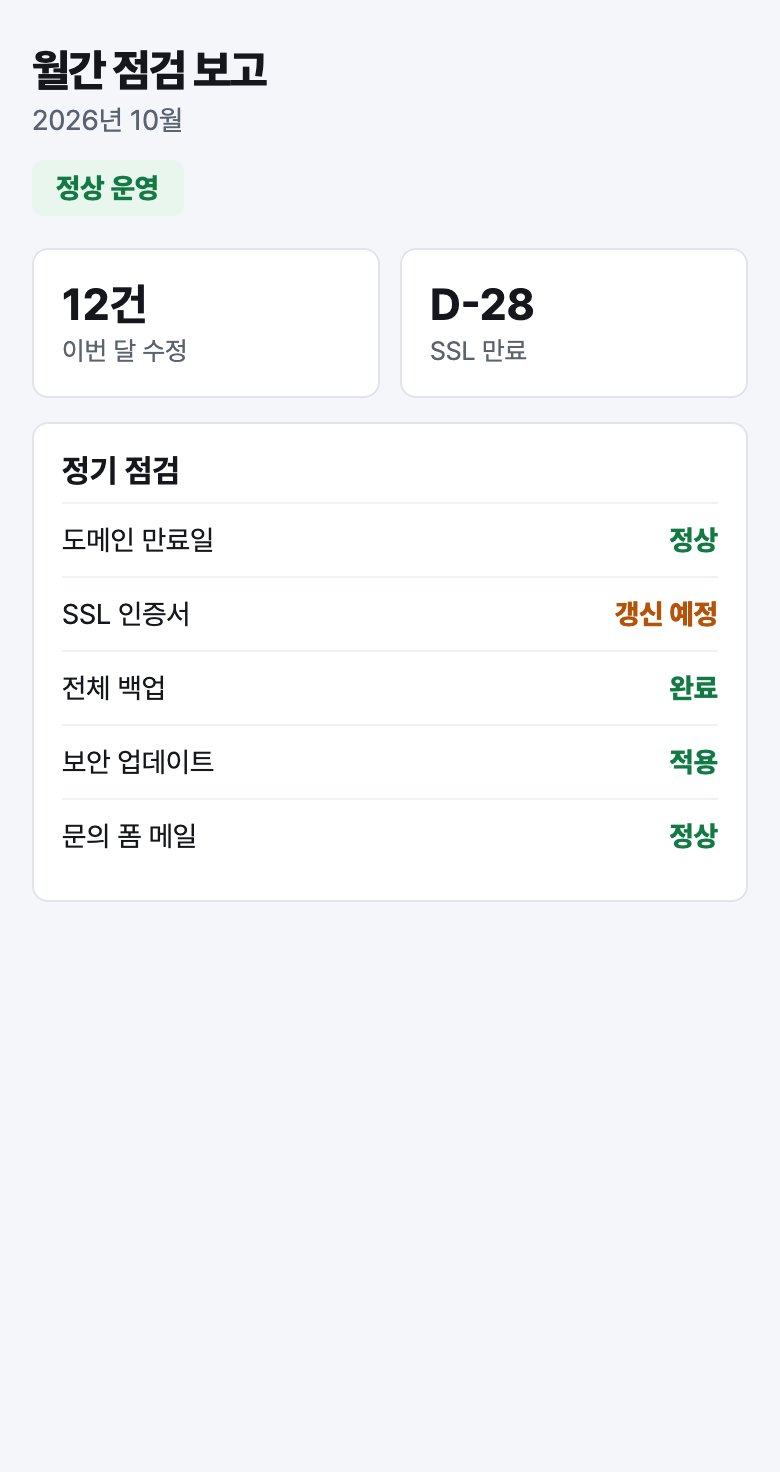
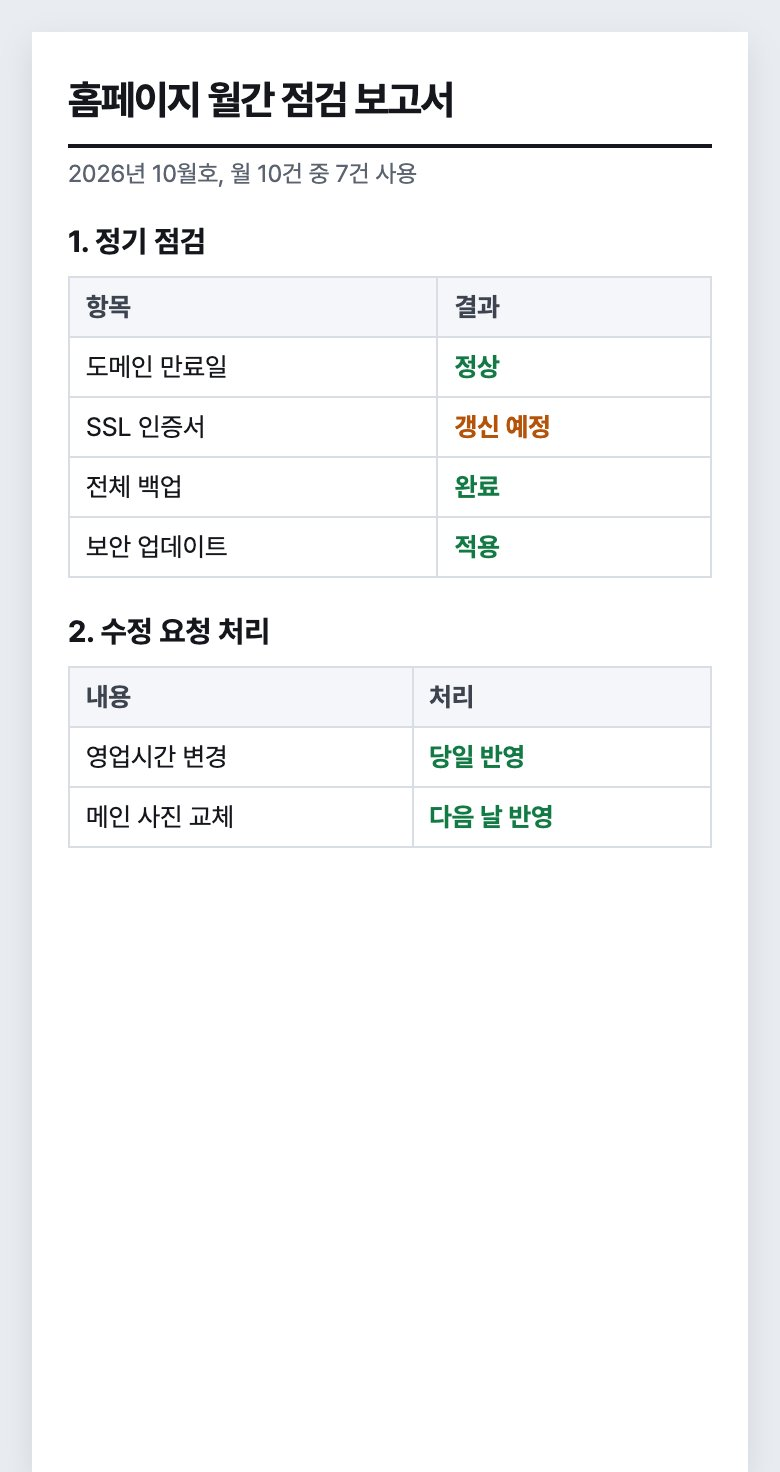
유지보수 슬라이드 화면을 월간 점검 보고서 문서로

diff --git a/assets/hero-wireframe/care-pc.html b/assets/hero-wireframe/care-pc.html
@@ -1,28 +1,27 @@
 <!doctype html><html lang="ko"><head><meta charset="utf-8"><link rel="stylesheet" href="https://cdn.jsdelivr.net/gh/orioncactus/pretendard@v1.3.9/dist/web/static/pretendard.min.css">
 <style>
-*{box-sizing:border-box;margin:0}body{width:1440px;height:900px;font-family:Pretendard;background:#f4f6f9;color:#15171c;padding:48px 60px}
-.top{display:flex;justify-content:space-between;align-items:center}.h{font-size:30px;font-weight:800;letter-spacing:-.04em}.sub{color:#5b6370;font-size:17px;margin-top:6px}
-.badge{background:#e8f6ee;color:#147a45;font-weight:800;padding:10px 18px;border-radius:8px;font-size:18px}
-.stats{display:grid;grid-template-columns:repeat(4,1fr);gap:16px;margin-top:28px}
-.s{background:#fff;border:1px solid #e1e5eb;border-radius:10px;padding:20px}.s b{display:block;font-size:34px;letter-spacing:-.04em}.s span{color:#5b6370;font-size:16px}
-.cols{display:grid;grid-template-columns:1.4fr 1fr;gap:16px;margin-top:16px}
-.card{background:#fff;border:1px solid #e1e5eb;border-radius:10px;padding:22px}.card h3{font-size:19px;margin-bottom:10px}
-.row{display:flex;justify-content:space-between;align-items:center;border-top:1px solid #eef1f5;padding:13px 0;font-size:17px}
-.ok{color:#147a45;font-weight:800}.warn{color:#b45309;font-weight:800}
-.bar{height:10px;background:#eef1f5;border-radius:5px;margin-top:8px}.bar i{display:block;height:100%;background:#256ef4;border-radius:5px}
-</style></head><body>
-<div class="top"><div><div class="h">월간 점검 보고</div><div class="sub">2026년 10월, 홈페이지 유지보수</div></div><div class="badge">정상 운영</div></div>
-<div class="stats"><div class="s"><b>24시간</b><span>내 회신</span></div><div class="s"><b>12건</b><span>이번 달 수정</span></div><div class="s"><b>4회</b><span>백업 확인</span></div><div class="s"><b>D-28</b><span>SSL 만료</span></div></div>
-<div class="cols">
-<div class="card"><h3>정기 점검</h3>
-<div class="row"><span>도메인 만료일</span><span class="ok">정상</span></div>
-<div class="row"><span>SSL 인증서</span><span class="warn">갱신 예정</span></div>
-<div class="row"><span>전체 백업</span><span class="ok">완료</span></div>
-<div class="row"><span>워드프레스 보안 업데이트</span><span class="ok">적용</span></div>
-<div class="row"><span>문의 폼 메일 수신</span><span class="ok">정상</span></div></div>
-<div class="card"><h3>수정 요청</h3>
-<div class="row"><span>영업시간 변경</span><span class="ok">반영</span></div>
-<div class="row"><span>메인 사진 교체</span><span class="ok">반영</span></div>
-<div class="row"><span>공지 등록 2건</span><span class="ok">반영</span></div>
-<div style="margin-top:14px;font-size:15px;color:#5b6370">월 건수 사용 7 / 10</div><div class="bar"><i style="width:70%"></i></div></div>
+*{box-sizing:border-box;margin:0}body{width:1440px;height:900px;font-family:Pretendard;background:#e9ecf1;display:flex;justify-content:center;padding-top:40px;overflow:hidden}
+.sheet{width:1040px;background:#fff;box-shadow:0 10px 30px rgba(0,0,0,.12);padding:56px 72px;color:#15171c}
+.head{display:flex;justify-content:space-between;align-items:flex-end;border-bottom:3px solid #15171c;padding-bottom:16px}
+.head h1{font-size:34px;letter-spacing:-.04em}.no{font-size:15px;color:#5b6370}
+table{width:100%;border-collapse:collapse;font-size:16px}
+.meta{margin-top:18px}.meta th{width:120px;background:#f4f6f9;text-align:left;font-weight:700;color:#3d4450}.meta td,.meta th{border:1px solid #d9dee5;padding:9px 12px}
+h2{font-size:19px;margin:26px 0 10px;letter-spacing:-.02em}
+.t th{background:#f4f6f9;font-weight:700;color:#3d4450;text-align:left}.t th,.t td{border:1px solid #d9dee5;padding:9px 12px}
+.ok{color:#147a45;font-weight:700}.warn{color:#b45309;font-weight:700}
+.sign{display:flex;justify-content:flex-end;gap:28px;margin-top:26px;font-size:16px}.sign div{border:1px solid #d9dee5;padding:10px 18px;min-width:170px}.sign b{display:block;font-size:13px;color:#5b6370;margin-bottom:4px}
+</style></head><body><div class="sheet">
+<div class="head"><h1>홈페이지 월간 점검 보고서</h1><div class="no">2026년 10월호</div></div>
+<table class="meta"><tr><th>점검 기간</th><td>2026. 10. 1 ~ 2026. 10. 31</td><th>작성일</th><td>2026. 10. 31</td></tr><tr><th>계약</th><td>월 유지보수, 월 10건</td><th>사용</th><td>7건</td></tr></table>
+<h2>1. 정기 점검</h2>
+<table class="t"><tr><th>항목</th><th>결과</th><th>비고</th></tr>
+<tr><td>도메인 만료일</td><td class="ok">정상</td><td>2027. 8. 14 만료</td></tr>
+<tr><td>SSL 인증서</td><td class="warn">갱신 예정</td><td>2026. 11. 28 만료, 11월 중 갱신</td></tr>
+<tr><td>전체 백업</td><td class="ok">완료</td><td>주 1회, 4회 확인</td></tr>
+<tr><td>보안 업데이트</td><td class="ok">적용</td><td>워드프레스 코어, 플러그인 3종</td></tr></table>
+<h2>2. 수정 요청 처리</h2>
+<table class="t"><tr><th>접수일</th><th>내용</th><th>처리</th></tr>
+<tr><td>10. 7</td><td>영업시간 변경</td><td class="ok">당일 반영</td></tr>
+<tr><td>10. 15</td><td>메인 사진 교체 3장</td><td class="ok">다음 날 반영</td></tr></table>
+<div class="sign"><div><b>작성</b>곰파트너</div><div><b>확인</b>&nbsp;</div></div>
 </div></body></html>

diff --git a/assets/hero-wireframe/care-m.html b/assets/hero-wireframe/care-m.html
@@ -1,12 +1,12 @@
 <!doctype html><html lang="ko"><head><meta charset="utf-8"><link rel="stylesheet" href="https://cdn.jsdelivr.net/gh/orioncactus/pretendard@v1.3.9/dist/web/static/pretendard.min.css">
 <style>
-*{box-sizing:border-box;margin:0}body{width:390px;height:736px;font-family:Pretendard;background:#f4f6f9;color:#15171c;padding:22px 16px}
-.h{font-size:22px;font-weight:800;letter-spacing:-.04em}.sub{color:#5b6370;font-size:14px;margin-top:4px}
-.badge{display:inline-block;margin-top:12px;background:#e8f6ee;color:#147a45;font-weight:800;padding:6px 12px;border-radius:6px;font-size:14px}
-.stats{display:grid;grid-template-columns:1fr 1fr;gap:10px;margin-top:16px}.s{background:#fff;border:1px solid #e1e5eb;border-radius:8px;padding:14px}.s b{display:block;font-size:22px}.s span{color:#5b6370;font-size:13px}
-.card{background:#fff;border:1px solid #e1e5eb;border-radius:8px;padding:14px;margin-top:12px}.card h3{font-size:16px;margin-bottom:6px}
-.row{display:flex;justify-content:space-between;border-top:1px solid #eef1f5;padding:10px 0;font-size:14px}.ok{color:#147a45;font-weight:800}.warn{color:#b45309;font-weight:800}
-</style></head><body><div class="h">월간 점검 보고</div><div class="sub">2026년 10월</div><div class="badge">정상 운영</div>
-<div class="stats"><div class="s"><b>12건</b><span>이번 달 수정</span></div><div class="s"><b>D-28</b><span>SSL 만료</span></div></div>
-<div class="card"><h3>정기 점검</h3><div class="row"><span>도메인 만료일</span><span class="ok">정상</span></div><div class="row"><span>SSL 인증서</span><span class="warn">갱신 예정</span></div><div class="row"><span>전체 백업</span><span class="ok">완료</span></div><div class="row"><span>보안 업데이트</span><span class="ok">적용</span></div><div class="row"><span>문의 폼 메일</span><span class="ok">정상</span></div></div>
-</body></html>
+*{box-sizing:border-box;margin:0}body{width:390px;height:736px;font-family:Pretendard;background:#e9ecf1;padding:16px;overflow:hidden}
+.sheet{background:#fff;box-shadow:0 6px 16px rgba(0,0,0,.1);padding:22px 18px;color:#15171c;min-height:720px}
+h1{font-size:20px;letter-spacing:-.04em;border-bottom:2px solid #15171c;padding-bottom:10px}.no{font-size:12px;color:#5b6370;margin-top:6px}
+h2{font-size:15px;margin:18px 0 8px}
+table{width:100%;border-collapse:collapse;font-size:13px}th,td{border:1px solid #d9dee5;padding:7px 8px;text-align:left}th{background:#f4f6f9;color:#3d4450}
+.ok{color:#147a45;font-weight:700}.warn{color:#b45309;font-weight:700}
+</style></head><body><div class="sheet"><h1>홈페이지 월간 점검 보고서</h1><div class="no">2026년 10월호, 월 10건 중 7건 사용</div>
+<h2>1. 정기 점검</h2><table><tr><th>항목</th><th>결과</th></tr><tr><td>도메인 만료일</td><td class="ok">정상</td></tr><tr><td>SSL 인증서</td><td class="warn">갱신 예정</td></tr><tr><td>전체 백업</td><td class="ok">완료</td></tr><tr><td>보안 업데이트</td><td class="ok">적용</td></tr></table>
+<h2>2. 수정 요청 처리</h2><table><tr><th>내용</th><th>처리</th></tr><tr><td>영업시간 변경</td><td class="ok">당일 반영</td></tr><tr><td>메인 사진 교체</td><td class="ok">다음 날 반영</td></tr></table>
+</div></body></html>
